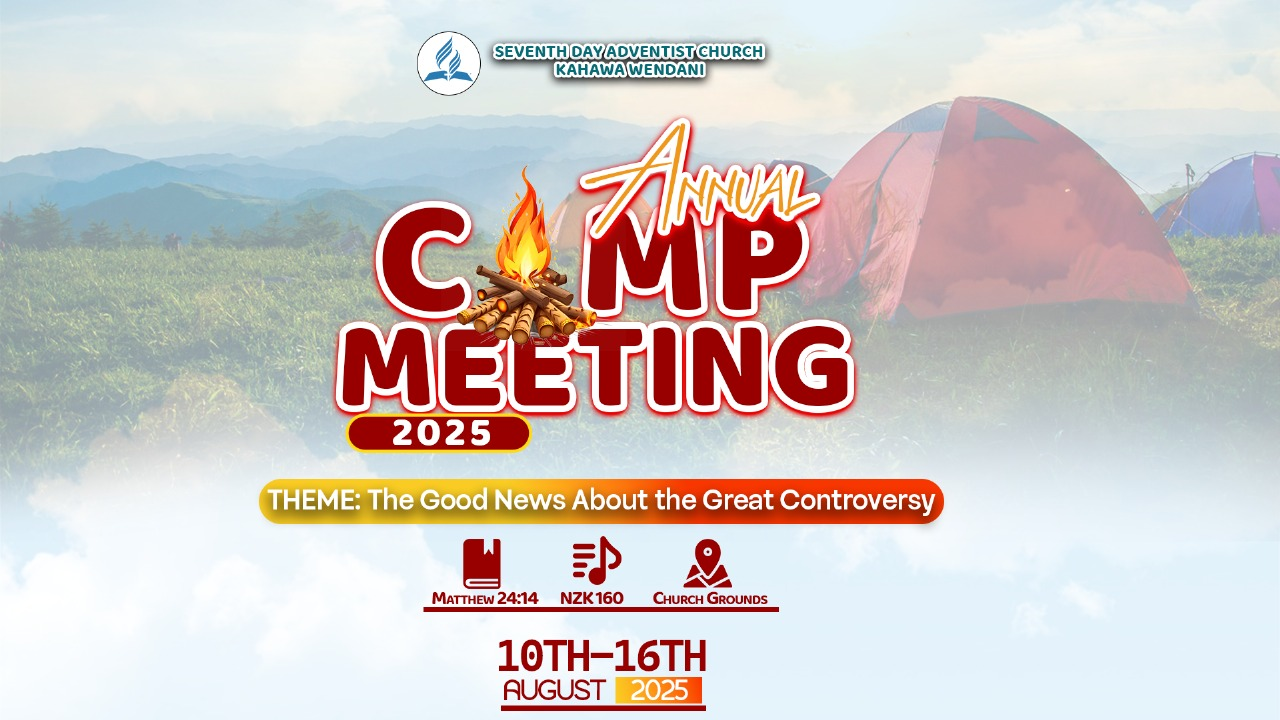
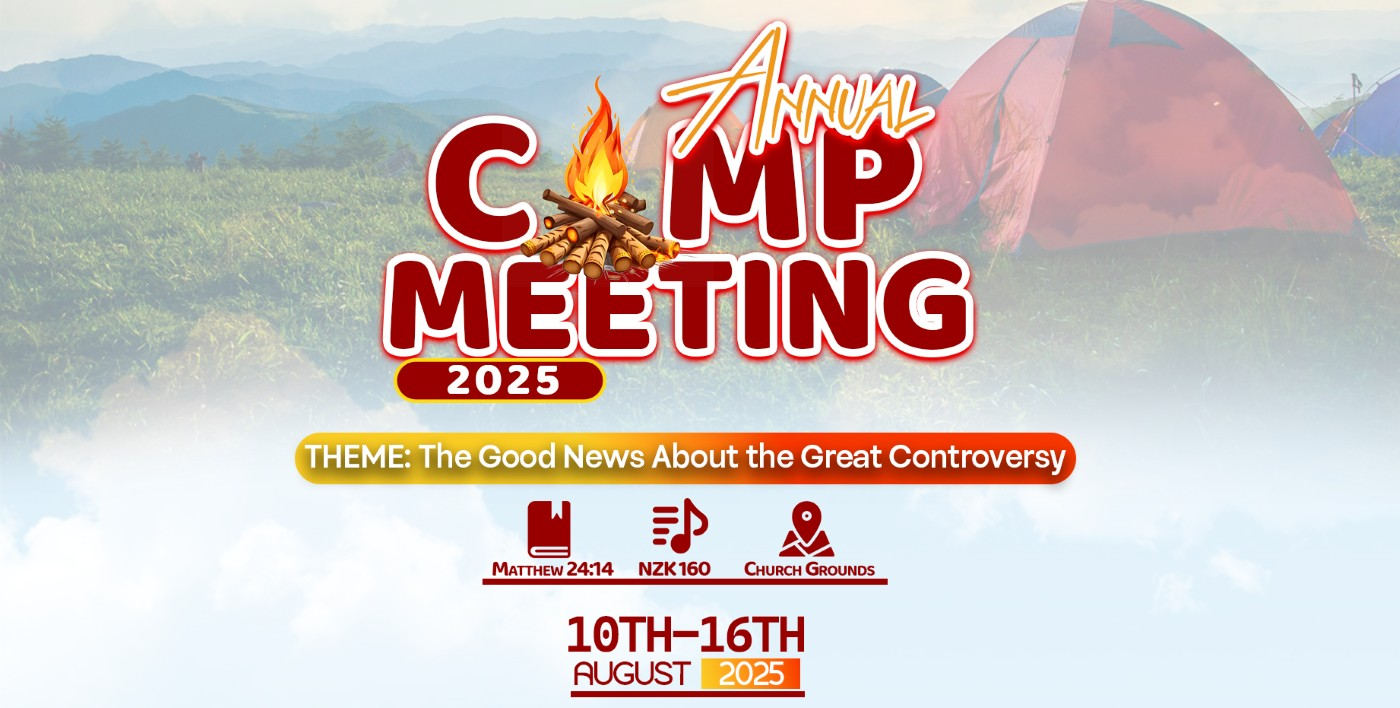
Style:Added Poster For Camp Meeting

diff --git a/src/components/home/Hero.tsx b/src/components/home/Hero.tsx
@@ -7,7 +7,7 @@ const slides = [
   
   {
     // YOUR NEW POSTER SLIDE
-    image: "/posters/camp.png", // <--- REPLACE WITH YOUR POSTER IMAGE PATH
+    image: "/posters/camp1.jpg", // <--- REPLACE WITH YOUR POSTER IMAGE PATH
     // No title or subtitle, since the poster has the info
     hasOverlay: true // <--- THIS WILL PREVENT THE OVERLAY
   },
